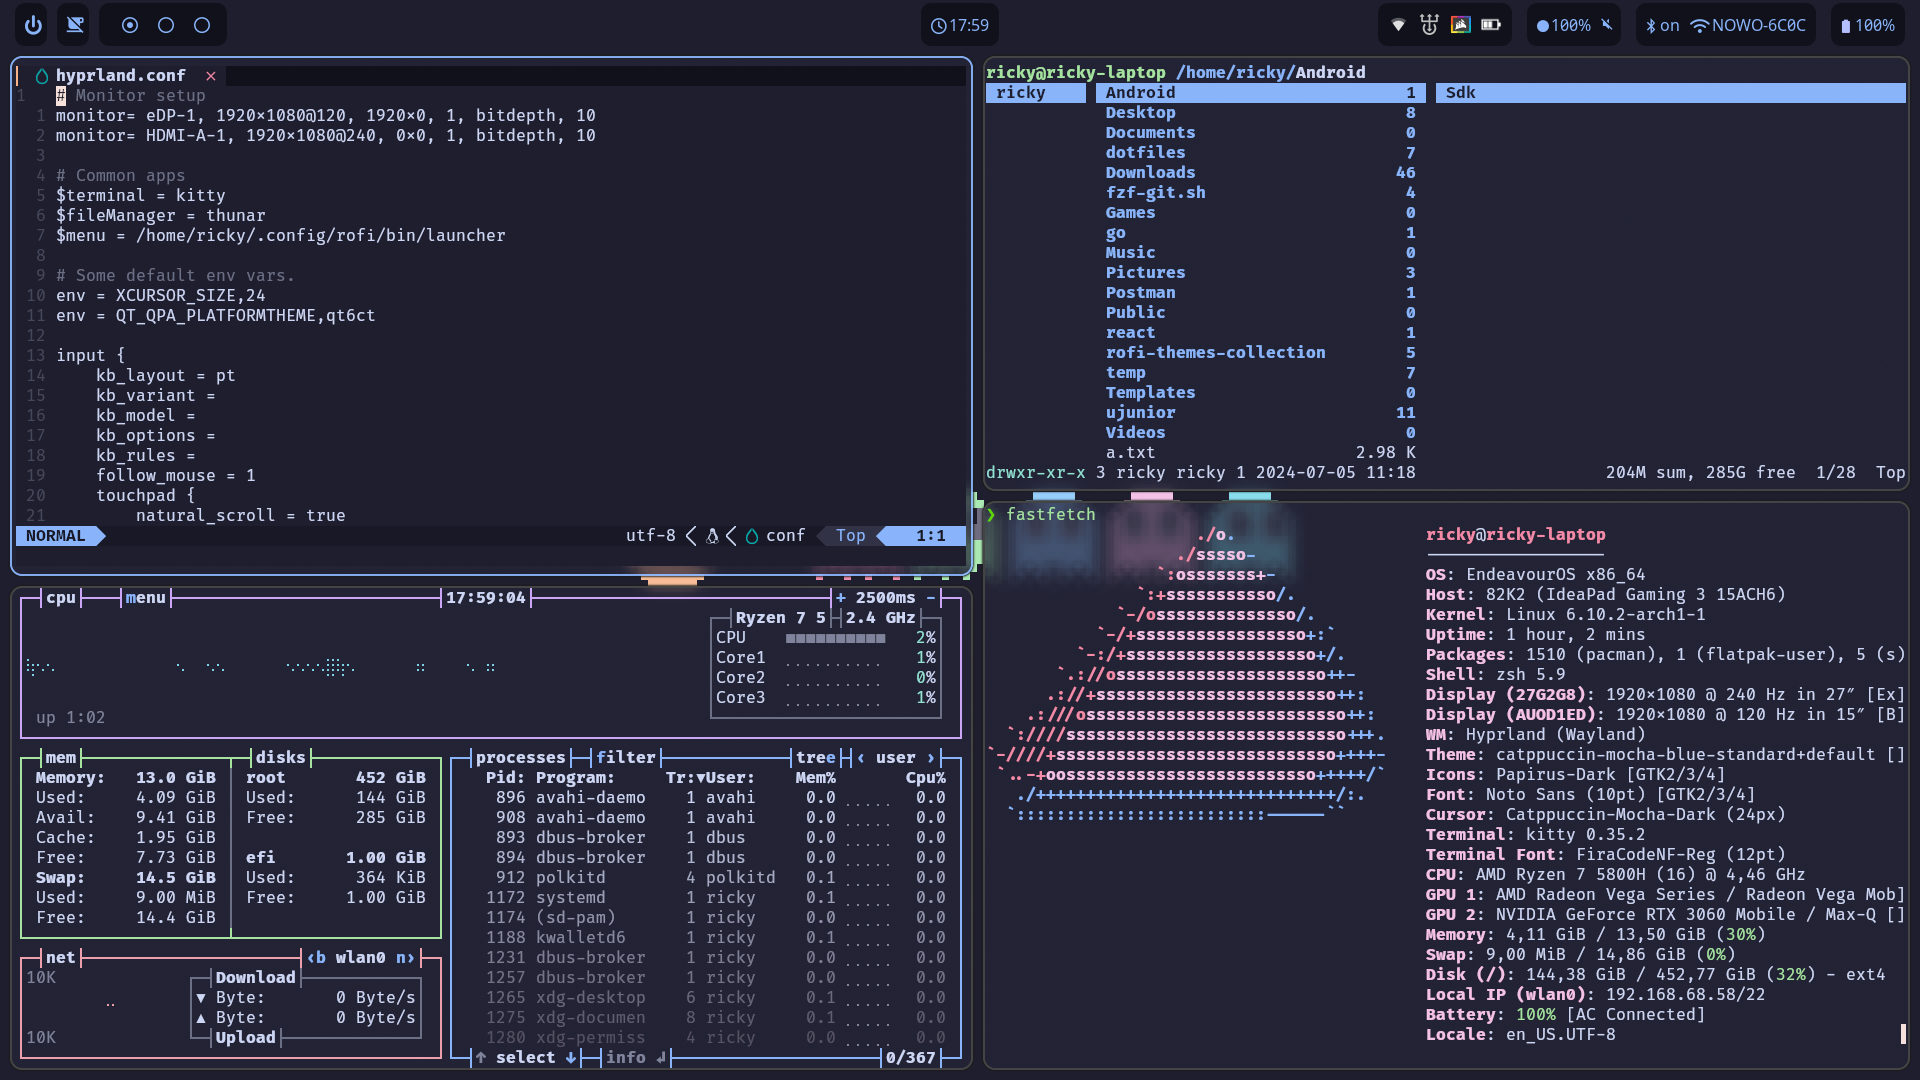
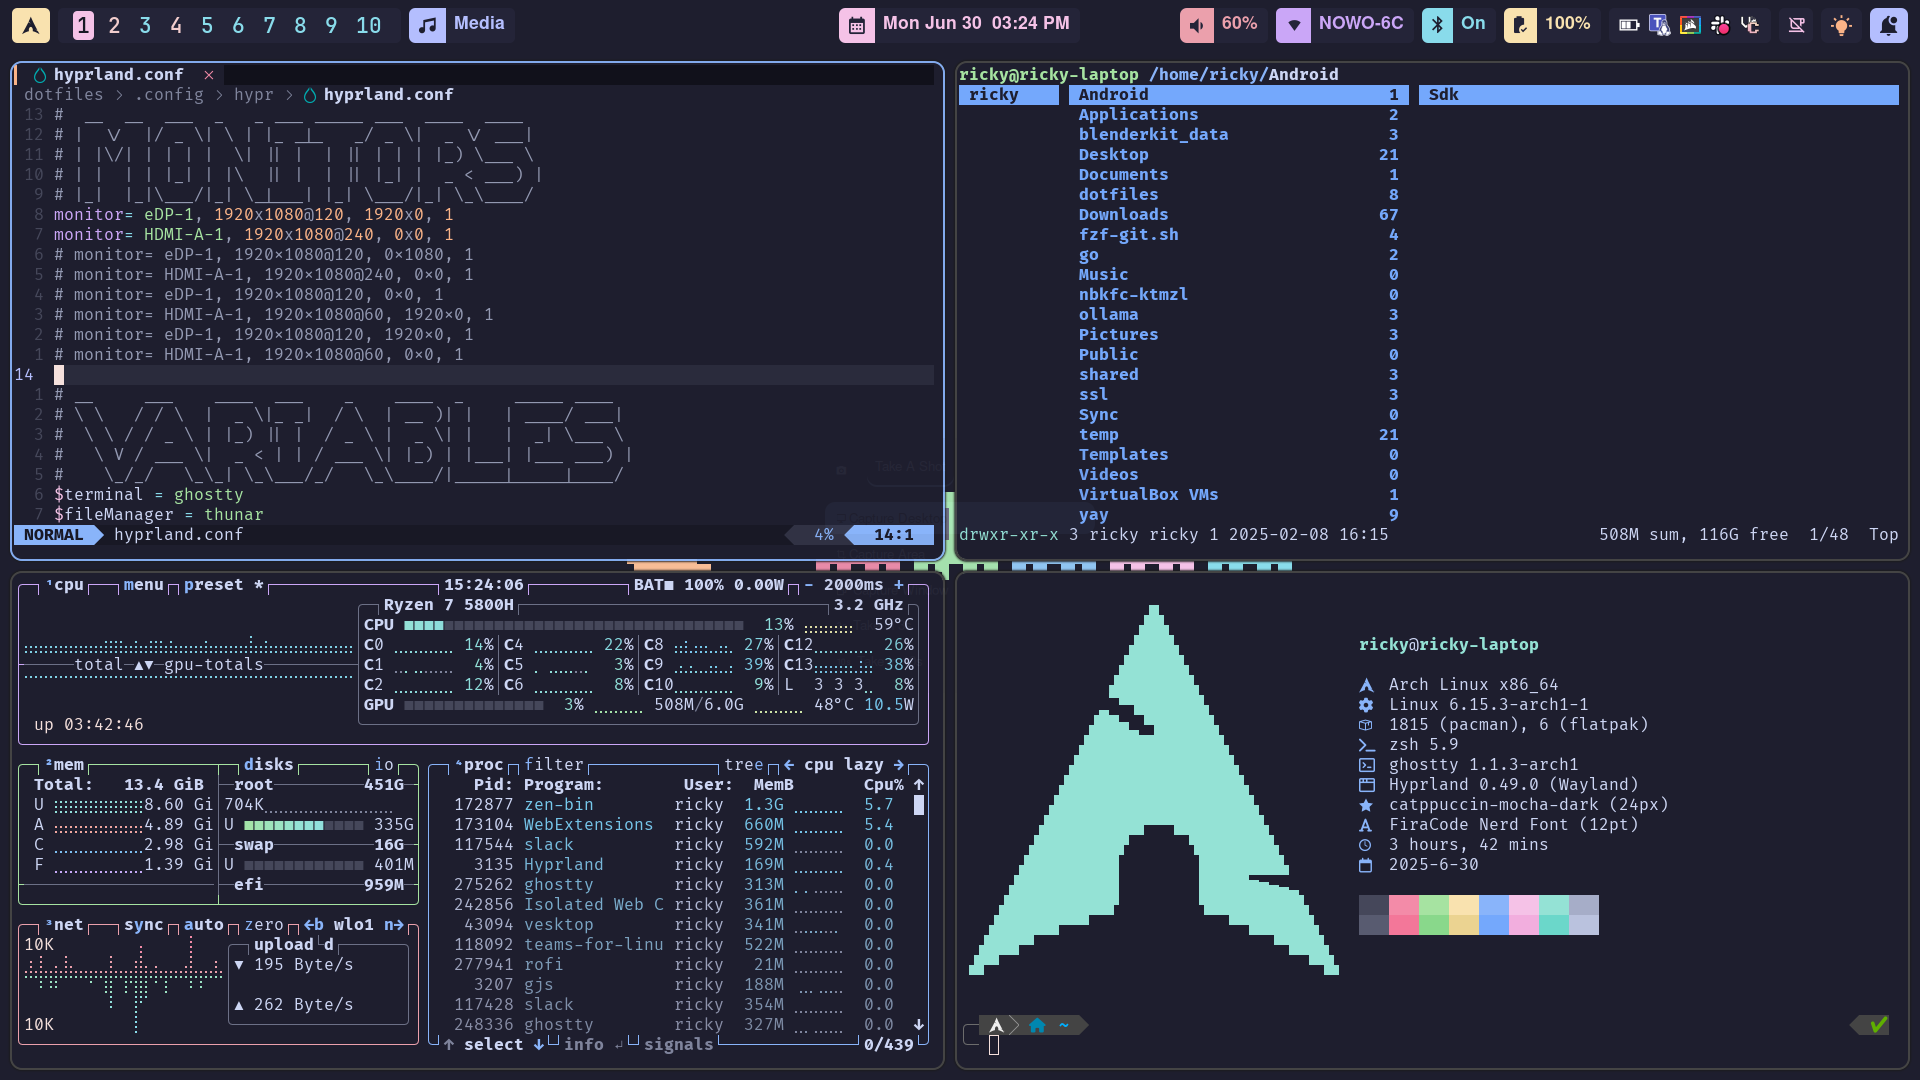
docs: updated readme

diff --git a/README.md b/README.md
@@ -1,10 +1,8 @@
-> Note: I just changed OS, from EndeavourOS to Arch. The new dotfiles will be available soon.
-
 # Dotfiles by RICKY
 
 Here you can find the dotfiles for my system.  
-They are not super organized, but it's what I use.  
-If you have any questions, feel free to message me on [LinkedIn](https://www.linkedin.com/in/-henriquesfernandes).
+They may not be perfectly organized, but they are functional and reflect my setup.  
+If you have any questions, feel free to reach out to me on [LinkedIn](https://www.linkedin.com/in/-henriquesfernandes).
 
 📸 Screenshots  
 
@@ -13,14 +11,14 @@ If you have any questions, feel free to message me on [LinkedIn](https://www.lin
 
 🔥 Info
 
-- OS: [Endeavour](https://endeavouros.com/)
-- Window Manager: [hyprland](https://hyprland.org/)
-- Terminal: [kitty](https://sw.kovidgoyal.net/kitty/)
-- Shell: [zsh](https://www.zsh.org/) with [ohmyzsh](https://ohmyz.sh/) and [powerlevel10k](https://github.com/romkatv/powerlevel10k)
-- GTK Theme: [catppuccin-mocha](https://github.com/catppuccin/gtk)
-- File Manager: [thunar](https://docs.xfce.org/xfce/thunar/start)
-- System Information: [neofetch](https://github.com/dylanaraps/neofetch) / [bashtop](https://github.com/aristocratos/bashtop)
-- Top Bar: [waybar](https://github.com/Alexays/Waybar), the config is based on someone (unfortunately I don't remember who) with some modifications of my own (colors, tray, caffeine, powerbutton...)
+- OS: [Arch](https://archlinux.org/)
+- Window Manager: [Hyprland](https://hyprland.org/)
+- Terminal: [Ghostty](https://ghostty.org/)
+- Shell: [Zsh](https://www.zsh.org/) with [Ohmyzsh](https://ohmyz.sh/) and [Powerlevel10k](https://github.com/romkatv/powerlevel10k)
+- GTK Theme: [Catppuccin-Mocha](https://github.com/catppuccin/gtk)
+- File Manager: [Thunar](https://docs.xfce.org/xfce/thunar/start)
+- System Information: [Fastfetch](https://github.com/fastfetch-cli/fastfetch) / [Btop](https://github.com/aristocratos/btop)
+- Top Bar: [Hypapanel](https://hyprpanel.com/)
 - Launcher: [rofi](https://github.com/davatorium/rofi)
 - Login Manager: [SDDM](https://github.com/sddm/sddm) with a modified version of [sugar candy](https://store.kde.org/p/1312658/)
 - Text Editor: [nvim](https://neovim.io/)
@@ -29,7 +27,6 @@ If you have any questions, feel free to message me on [LinkedIn](https://www.lin
 - Idle Manager: [hypridle](https://github.com/hyprwm/hypridle)
 - Printscreen Manager: [hyprshot](https://github.com/Gustash/Hyprshot)
 - Color picker: [hyprpicker](https://github.com/hyprwm/hyprpicker)
-- Notifications: [dunst](https://github.com/dunst-project/dunst)
 
 🛠 Installation Script
 
